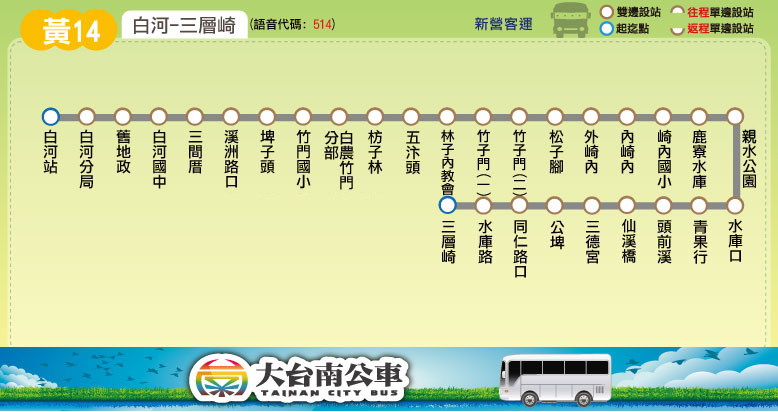
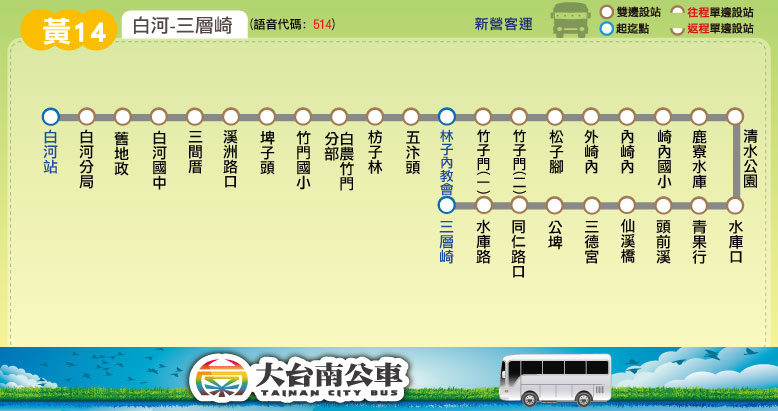
更新時刻表：黃14(增「白河－林子內教會」區間車一往返)

diff --git a/route/fare_and_time/yellow_14.js b/route/fare_and_time/yellow_14.js
@@ -32,6 +32,8 @@ yellow_14_fare = [
 // [time, start_stop, end_stop, other]
 yellow_14_main_stop_name = ["白河","三間厝","林子內<br />教會","鹿寮水庫","三層崎"];
 yellow_14_main_stop_time_consume = [0, 5, 12, 20, 27];
-yellow_14_important_stop = [0, 4]; // 白河, 三層崎
-yellow_14_time_go = [["06:35"],["07:50"],["10:20"],["17:40"]];
-yellow_14_time_return = [["06:00"],["07:10"],["08:25"],["10:55"]];
+yellow_14_important_stop = [0, 2, 4]; // 白河, 林子內教會, 三層崎
+var start_stop = 0; // 白河
+var end_stop = 2; // 林子內教會
+yellow_14_time_go = [["06:35"],["07:50"],["10:20"],["16:00",start_stop,end_stop],["17:40"]];
+yellow_14_time_return = [["06:00"],["07:10"],["08:25"],["10:55"],["16:25",end_stop,start_stop]];

diff --git a/urban/15.html b/urban/15.html
@@ -17,7 +17,7 @@
 <body>
 <script type="text/javascript">
 	block_header();
-	block_route_map();
+	block_route_map(null);
 	block_route_info(route_interval,'府城客運','尖20離30~40','一段票','http://www.2384.com.tw/ebus/jsp/ajaxBus.jsp?pathId=10452&locale=zh_TW');
 	block_fare(1, null);
 	block_time_schedule('奇美醫院','大成國中/大成路口','');
